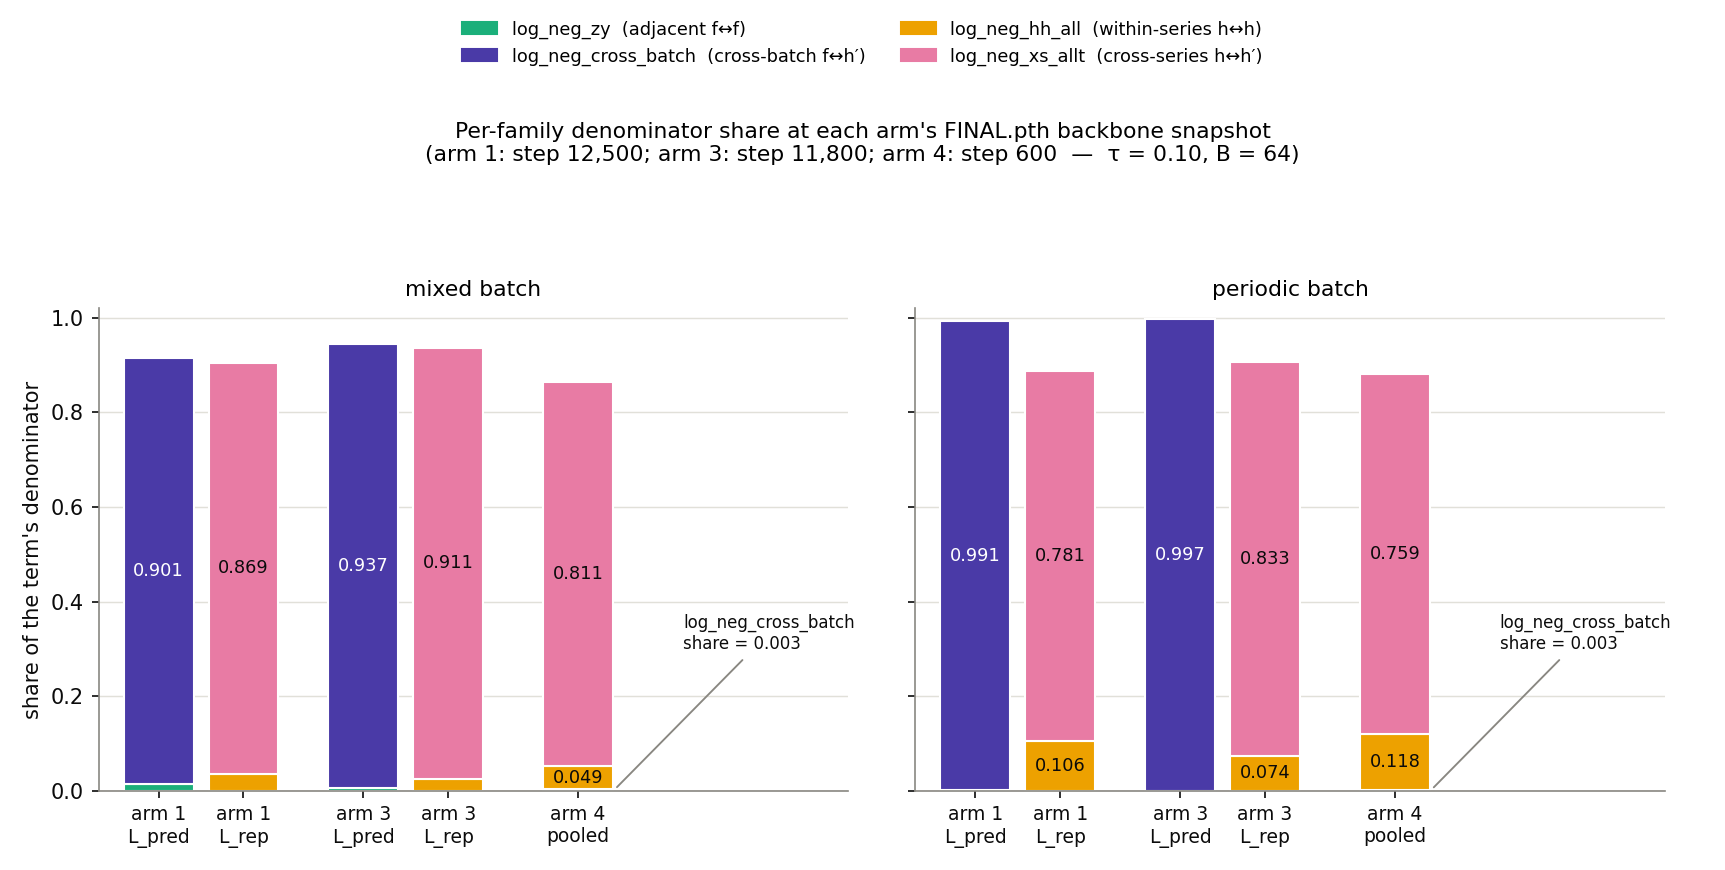
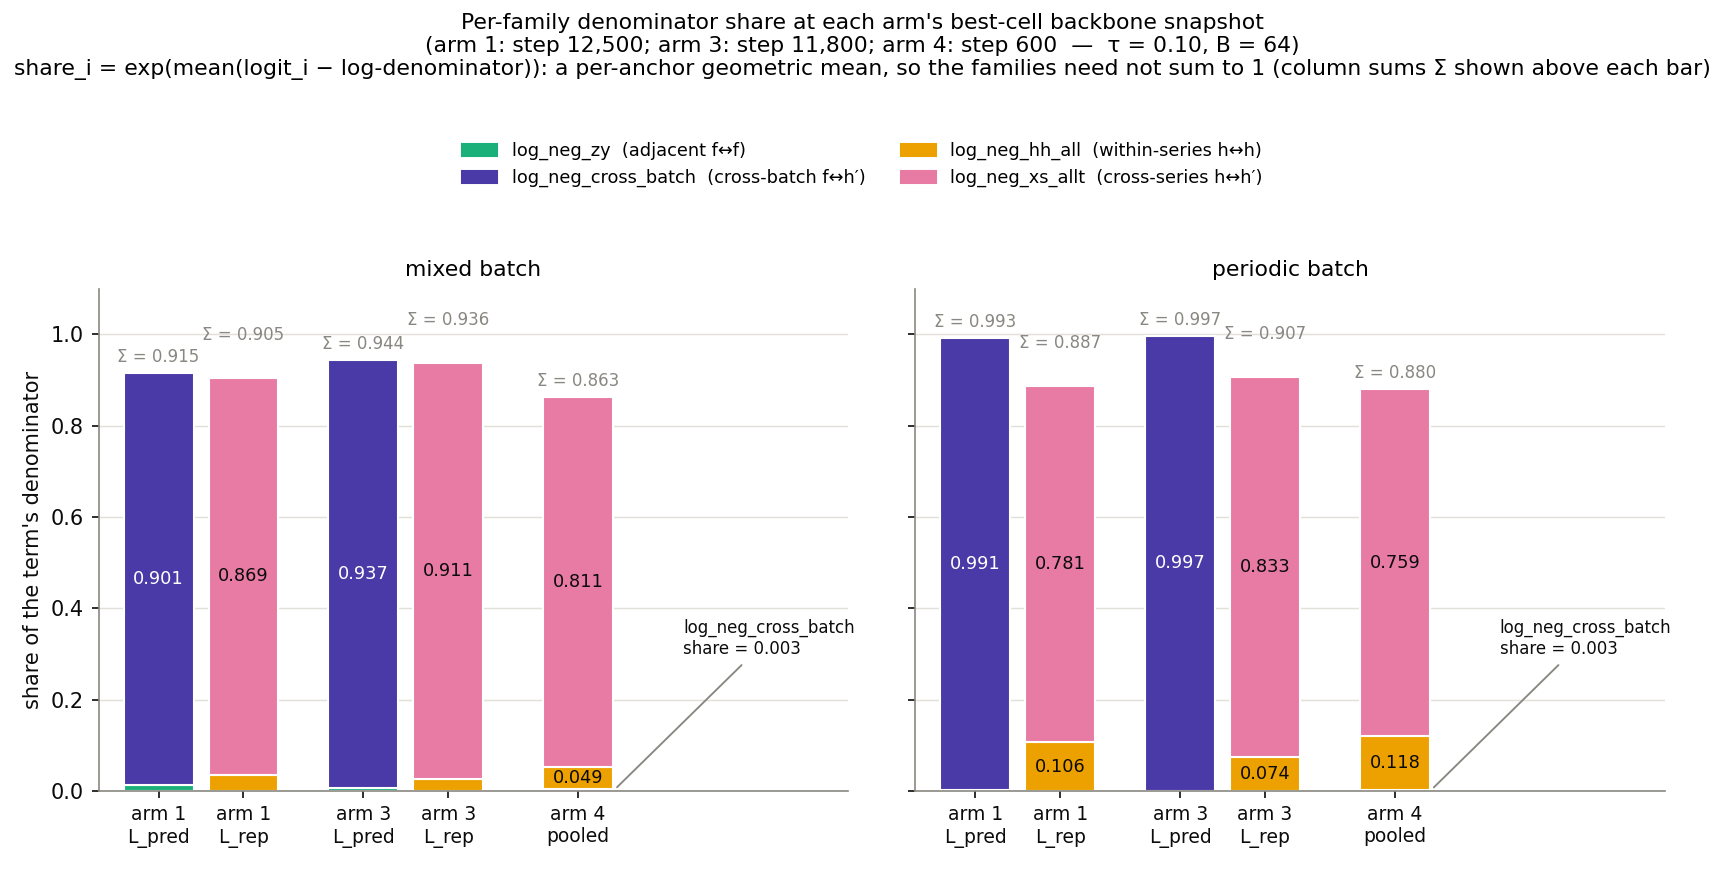
report(#374): apply reviewer edit list — fix 25k durability claim, captions out of alt text, cite all numbers, reconcile FINAL/final, label share remainder

diff --git a/reports/2026-07-10_split_pred_rep/plots/_make_plots.py b/reports/2026-07-10_split_pred_rep/plots/_make_plots.py
@@ -184,10 +184,14 @@ def gradient_share_stack() -> None:
                                 xytext=(xpos + 1.05, 0.30), fontsize=8, color=INK,
                                 arrowprops=dict(arrowstyle="-", color=MUTED, lw=0.9))
                 bottom += share
+            if bottom > 0:
+                dy = 0.015 if BAR_SLOTS.index((arm, denom, ticklabel, xpos)) % 2 == 0 else 0.075
+                ax.text(xpos, bottom + dy, f"Σ = {bottom:.3f}", ha="center",
+                        va="bottom", fontsize=8, color=MUTED)
         ax.set_xlim(-0.6, 6.9)
         ax.set_xticks([s[3] for s in BAR_SLOTS], [s[2] for s in BAR_SLOTS], fontsize=9)
         ax.set_title(f"{batch} batch", fontsize=10.5)
-        ax.set_ylim(0, 1.02)
+        ax.set_ylim(0, 1.10)
         ax.grid(axis="y", color=GRID, lw=0.7)
         ax.set_axisbelow(True)
         for side in ("top", "right"):
@@ -196,11 +200,13 @@ def gradient_share_stack() -> None:
     handles = [plt.Rectangle((0, 0), 1, 1, color=C_TENSOR[t]) for t in STACK_ORDER]
     fig.legend(handles, [TENSOR_LABEL[t] for t in STACK_ORDER],
                loc="upper center", ncol=2, fontsize=8.5, frameon=False,
-               bbox_to_anchor=(0.5, 0.995))
-    fig.suptitle("Per-family denominator share at each arm's FINAL.pth backbone snapshot"
-                 "\n(arm 1: step 12,500; arm 3: step 11,800; arm 4: step 600  —  τ = 0.10, B = 64)",
-                 y=0.86, fontsize=10.5)
-    fig.tight_layout(rect=(0, 0, 1, 0.78))
+               bbox_to_anchor=(0.5, 0.855))
+    fig.suptitle("Per-family denominator share at each arm's best-cell backbone snapshot"
+                 "\n(arm 1: step 12,500; arm 3: step 11,800; arm 4: step 600  —  τ = 0.10, B = 64)"
+                 "\nshare_i = exp(mean(logit_i − log-denominator)): a per-anchor geometric mean, "
+                 "so the families need not sum to 1 (column sums Σ shown above each bar)",
+                 y=0.985, fontsize=10.5)
+    fig.tight_layout(rect=(0, 0, 1, 0.83))
     fig.savefig(HERE / "gradient_share_stack.png")
     plt.close(fig)
 

diff --git a/reports/2026-07-10_split_pred_rep/split_pred_rep.md b/reports/2026-07-10_split_pred_rep/split_pred_rep.md
@@ -1,12 +1,14 @@
-# Splitting the contrastive loss (L_pred + L_rep) is not established as beating the SIGReg champion; MoCo-on-both (bimoco) point-beats the champion in all four (head, checkpoint) cells and leads the sibling arms with CIs at 12,500 steps
+# Splitting the contrastive loss: MoCo on both terms leads the sibling arms at 12,500 steps; no arm is established as beating the SIGReg champion
 
 **Question.** The champion loss merges five negative tensors under one pooled log-sum-exp denominator. Does splitting it into `L_pred` (f-anchored) and `L_rep` (h-anchored) improve GM-Relative MASE on the GIFT-Eval 97-config panel, and does adding EMA-teacher MoCo keys or replacing `L_pred` with BYOL alignment change the answer? (terms defined in annex)
 
-**Answer.** No arm is established as beating the SIGReg-champion (arm C). Among the six sibling arms, `L_pred_moco + L_rep_moco` (bimoco) has the lowest GM-Relative MASE at all four 12,500-step (head, checkpoint) cells and is 95 %-separated (task-level 95 % CI excludes ratio 1.0) from arms 1, 3, 4, 5, 6 in every cell (paired task-bootstrap, below). bimoco's point estimates are also below arm C in all four cells (narrowest gap 0.0167 at 6L / last), but arm C has no per-task file on this branch, so that gap is a point-estimate difference with no CI. The lead does not hold past 12,500 steps: arm 4 (pooled + MoCo) matches or beats bimoco at 25k. Single seed (20260520).
+**Answer.** No arm is established as beating the SIGReg champion (arm C). Among the six *sibling arms* — the six recipes trained here, sharing one backbone configuration and differing only in loss shape and key source — `L_pred_moco + L_rep_moco` (*bimoco*: the split loss with EMA-teacher MoCo keys on both terms) has the lowest GM-Relative MASE at all four 12,500-step (head, checkpoint) cells and is 95 %-separated (task-level 95 % CI excludes ratio 1.0) from arms 1, 3, 4, 5, 6 in every cell (paired task-bootstrap, below); on the two arm-4 `best` rows the compared backbones are 11,800 steps apart (arm 4 step 600 vs bimoco step 12,400), so those two rows mix loss shape with backbone step. bimoco has a lower point estimate than arm C in all four cells, but arm C has no per-task file, so that difference carries no CI. The lead does not hold past 12,500 steps: arm 4 (pooled + MoCo) is the lowest arm at 25,000 steps. Single seed (20260520).
 
 ## Result
 
-![Downstream GM-Relative MASE per arm at each (head, checkpoint) cell (point estimates; N = 1 seed). Dashed line = seasonal-naive (1.0). The hatched bar is arm C ref † — an external aggregate read from `experiments/2026-06-28_sigreg_lambda_tau_cross/results/gm_table.csv`, not reproducible from this experiment's `results/`, and with no CI. Arm separation is the paired task-bootstrap in the CI-forest figure below, not a bar-to-bar comparison here.](plots/headline_relmase.png)
+![Downstream GM-Relative MASE per arm](plots/headline_relmase.png)
+
+*Downstream GM-Relative MASE per arm at each (head, checkpoint) cell (point estimates; N = 1 seed). Dashed line = seasonal-naive (1.0). The hatched bar is arm C ref † — an external aggregate read from `experiments/2026-06-28_sigreg_lambda_tau_cross/results/gm_table.csv`, not reproducible from this experiment's results, and with no CI. Arm separation is the paired task-bootstrap in the CI-forest figure below, not a bar-to-bar comparison here.*
 
 | arm | 2L / best | 2L / last | 6L / best | 6L / last |
 | --- | --: | --: | --: | --: |
@@ -18,19 +20,25 @@
 | arm bimoco (`L_pred_moco` + `L_rep_moco`) | **1.1225** | **1.1180** | **1.1138** | **1.1087** |
 | arm C ref (SIGReg-cross champion) † | 1.1682 | 1.1491 | 1.1561 | 1.1254 |
 
-† arm C ref: aggregate read from `experiments/2026-06-28_sigreg_lambda_tau_cross/results/gm_table.csv` (arm `cross_C`); no per-task file exists on this branch. These four point estimates are read from an external file and cannot be reproduced from `results/` in this experiment.
+Sibling-arm cells: the `Aggregate GM-Relative MASE (97 configs)` line of `experiments/2026-07-10_split_pred_rep/results*/gift_eval_full_*/summary.txt`.
+
+† arm C ref: aggregate read from `experiments/2026-06-28_sigreg_lambda_tau_cross/results/gm_table.csv` (arm `cross_C`); no per-task file exists. These four point estimates come from an external file and cannot be reproduced from this experiment's results.
 
 ## GM-Relative MASE across backbone step
 
-![GM-Relative MASE per arm across backbone step (2k / best / 12,500 / 25k / 50k where available), shared y-axis, with the arm C champion † best (dotted) and last (dashed) cells as horizontal references. The 12,500 `best`/`last` cells use a 30k best-loss head (+10k resume for `last`); the 2k / 25k / 50k cells use a fresh 40k head on that snapshot.](plots/gm_curve_per_arm.png)
+![GM-Relative MASE per arm across backbone step](plots/gm_curve_per_arm.png)
 
-Continuing past 12,500 steps lowers no arm below its 12,500-step value, and arm 4 (pooled + MoCo) matches or beats bimoco at 25k (arm 4 6L 25k = 1.1073 vs bimoco 6L 25k = 1.1319), so the bimoco lead is established only at the four 12,500-step cells used for the arm ranking.
+*GM-Relative MASE per arm across backbone step (2k / best / 12,500 / 25k / 50k where available), shared y-axis, with the arm C champion † best (dotted) and last (dashed) cells as horizontal references. The 12,500 `best` / `last` cells use a 30k best-loss head (+10k resume for `last`); the 2k / 25k / 50k cells use a fresh 40k head on that snapshot.*
+
+At 25,000 steps arm 4 (pooled + MoCo) is the lowest arm in both panels (6L: arm 4 = 1.1073 vs bimoco = 1.1319; 2L: arm 4 = 1.1332 vs bimoco = 1.1339), so the bimoco lead is established only at the four 12,500-step cells used for the arm ranking. Other 6L / 25k cells: arm 3 = 1.1170, arm 1 = 1.1500 (`experiments/2026-07-10_split_pred_rep/results*/gift_eval_full_*_25k_*L/summary.txt`).
 
 ## Paired-bootstrap 95 % CIs on GM-Relative MASE ratios
 
-![Paired-bootstrap 95 % CIs on GM-Relative MASE ratios. Circle = task-level bootstrap; square (faded) = 28-dataset-clustered bootstrap. `*` marks checkpoint-selection- or step-confounded rows. n_boot = 20,000, seed 42.](plots/ci_forest.png)
+![Paired-bootstrap 95 % CIs on GM-Relative MASE ratios](plots/ci_forest.png)
 
-Rows counted as separated when the task-level 95 % CI excludes ratio 1.0 (`experiments/2026-07-10_split_pred_rep/results/pairwise_bootstrap_ci_*_nboot200k.csv` for the arm-5/6/bimoco references, `pairwise_bootstrap_ci.csv` for the arm-1/3/4 pairwise; direction ratio > 1 → the named arm is worse than the reference):
+*Paired-bootstrap 95 % CIs on GM-Relative MASE ratios. Circle = task-level bootstrap; square (faded) = 28-dataset-clustered bootstrap. `*` marks checkpoint-selection- or step-confounded rows. n_boot = 20,000, seed 42. The figure shows 34 of the 60 contrasts counted in the table below: all 12 arm-1/3/4 pairwise rows and all 12 arm-1/3/4-vs-bimoco rows (`best` and `last`), plus the `last`-cell rows for arm 5 vs arm 1, arms 1/3/4 vs arm 6, and arm 5 vs arm 6. The remaining 26 contrasts are counted in the table but not plotted.*
+
+Rows counted as separated when the task-level 95 % CI excludes ratio 1.0 (`experiments/2026-07-10_split_pred_rep/results/pairwise_bootstrap_ci_*_nboot200k.csv` for the arm-5/6/bimoco references, `experiments/2026-07-10_split_pred_rep/results/pairwise_bootstrap_ci.csv` for the arm-1/3/4 pairwise; direction ratio > 1 → the named arm is worse than the reference):
 
 | contrast set | rows | separated at 95 % (task-level CI) |
 | --- | --: | --: |
@@ -41,19 +49,33 @@ Rows counted as separated when the task-level 95 % CI excludes ratio 1.0 (`exper
 | **arm 1 / 3 / 4 vs bimoco** | **12** | **12 / 12 (bimoco lower)** |
 | arm 5 / arm 6 vs bimoco | 8 | 8 / 8 (bimoco lower) |
 
-Within the arm-1/3/4-vs-bimoco family, 10 of the 12 rows also clear the Bonferroni threshold α = 0.05 / 60 = 0.000833; the two that miss are 2L / best arm 4 vs bimoco (p₂ = 0.00435) and 6L / best arm 3 vs bimoco (p₂ = 0.00426) (`two_sided_p` column of `results/pairwise_bootstrap_ci_bimoco_nboot200k.csv`). On the periodic-cluster subset (`results/pairwise_bootstrap_ci_periodic.csv`) bimoco is again the lowest arm in every cell, separated at 95 % on 10 of the 12 arm-1/3/4 rows (both exceptions are arm 4 `best`).
+Within the arm-1/3/4-vs-bimoco family, 10 of the 12 rows also clear the Bonferroni threshold α = 0.05 / 60 = 0.000833; the two that miss are 2L / best arm 4 vs bimoco (p₂ = 0.00435) and 6L / best arm 3 vs bimoco (p₂ = 0.00426) (`two_sided_p` column of `experiments/2026-07-10_split_pred_rep/results/pairwise_bootstrap_ci_bimoco_nboot200k.csv`). On the periodic subset (37 of the 97 configs, `experiments/2026-07-10_split_pred_rep/results/pairwise_bootstrap_ci_periodic.csv`) bimoco is again the lowest arm in every cell, separated at 95 % on 10 of the 12 arm-1/3/4 rows; both exceptions are arm 4 `best` (2L CI 0.976–1.103, 6L CI 0.991–1.108).
 
 ## Denominator share
 
-![Per-family denominator share at each arm's FINAL.pth backbone snapshot (arm 1: step 12,500; arm 3: step 11,800; arm 4: step 600), on a mixed batch and a periodic-only batch (solar/electricity windows), τ = 0.10, probe B = 64.](plots/gradient_share_stack.png)
+![Per-family denominator share](plots/gradient_share_stack.png)
 
-Splitting gives the prediction pairs a near-full denominator; pooling collapses their share to 0.003 (both batches).
+*Per-family denominator share at each arm's best-cell backbone snapshot (arm 1: step 12,500; arm 3: step 11,800; arm 4: step 600), on a mixed batch and a periodic-only batch (solar / electricity windows), τ = 0.10, probe B = 64. `share_i = exp(mean(logit_i − log-denominator))` is a per-anchor geometric mean, so the families need not sum to 1; each bar's column sum Σ is printed above it.*
 
-The share is measured at probe B = 64 (diagnostic), whereas training ran at B = 512; cross-batch share is B-dependent, so the absolute shares are indicative, not identical to the training-time split.
+Measured share of the cross-batch `f ↔ h′` family (`log_neg_cross_batch`) in the term carrying the prediction pairs (`experiments/2026-07-10_split_pred_rep/results/gradient_share_measurement.csv`):
+
+| arm | term | mixed batch | periodic batch |
+| --- | --- | --: | --: |
+| arm 1 (split, step 12,500) | `L_pred` | 0.901 | 0.991 |
+| arm 3 (split + MoCo, step 11,800) | `L_pred` | 0.937 | 0.997 |
+| arm 4 (pooled, step 600) | pooled | 0.003 | 0.003 |
+
+The three probed snapshots span 11,900 steps, so this split-vs-pooled difference is not separated from backbone step; bimoco was not probed. The share is measured at probe B = 64 (diagnostic), whereas training ran at B = 512; cross-batch share is B-dependent, so the absolute shares are indicative, not identical to the training-time split.
 
 ## Method (annex)
 
-All backbones: B = 512, T = 4096, C = 1, τ = 0.10, `lr = 1e-3`, seed 20260520, dataset `gift-pretrain-full-4096 / small_v1`, EMA teacher τ = 0.90, SIGReg λ_e = λ_h = 1, CPC auxiliary, 12,500 steps. Downstream head (quantile, 2L or 6L): the `best` cell trains a fresh 30k-step head on `FINAL.pth` (the best-loss backbone); the `last` cell resumes that head +10k steps on `final.pth` (step 12,500). The 2k / 25k / 50k trajectory cells each train a fresh 40k-step head on the corresponding backbone snapshot. Eval: GIFT-Eval 97 configs, strategy B4, quantile-median MASE divided by the branch-committed seasonal-naive reference (`experiments/2026-07-10_split_pred_rep/results/seasonal_naive_all_results.csv`).
+All backbones: B = 512, T = 4096, C = 1, τ = 0.10, `lr = 1e-3`, seed 20260520, dataset `gift-pretrain-full-4096 / small_v1`, EMA teacher τ = 0.90, SIGReg λ_e = λ_h = 1, CPC auxiliary, 12,500 steps.
+
+Two backbone snapshots per arm feed the downstream head. The **best-cell backbone** (file `bb_<run>_FINAL.pth`) is a copy of the arm's `_best_loss.pth` save; arm 1 recorded no `best_loss` save, so its best-cell backbone is byte-identical to its step-12,500 backbone (`experiments/2026-07-10_split_pred_rep/results/backbone_step_verification.log`). The **step-12,500 backbone** (file `bb_<run>_final.pth`) is the end-of-training checkpoint. The `best` cell trains a fresh 30k-step quantile head (2L or 6L) on the best-cell backbone; the `last` cell resumes that head +10k steps on the step-12,500 backbone. The 2k / 25k / 50k trajectory cells each train a fresh 40k-step head on the corresponding backbone snapshot.
+
+Eval: GIFT-Eval 97 configs, strategy B4, quantile-median MASE divided by the seasonal-naive reference in `experiments/2026-07-10_split_pred_rep/results/seasonal_naive_all_results.csv`.
+
+f-anchored retrieval is saturated across all arms after step 600 — `auc` ≥ 0.9975, minimum `top1` 0.8348 (arm 1, step 3,343), every other arm above 0.95 (`auc` / `top1` columns of `experiments/2026-07-10_split_pred_rep/runs*/bb_*_losses*.csv`) — so this diagnostic does not separate the arms.
 
 ## Arms (annex)
 
@@ -69,17 +91,17 @@ All backbones: B = 512, T = 4096, C = 1, τ = 0.10, `lr = 1e-3`, seed 20260520, 
 
 ## Backbone step (annex)
 
-| arm | `best` cell step | `last` cell step | `FINAL.pth` = |
+| arm | `best` cell step | `last` cell step | best-cell backbone = |
 | --- | --: | --: | --- |
-| arm 1 | 12,500 | 12,500 | `FINAL.pth` is the step-12,500 checkpoint, not a loss-argmin checkpoint |
-| arm 3 | 11,800 | 12,500 | `best_loss.pth` at step 11,800 |
-| arm 4 | 600 | 12,500 | `best_loss.pth` at step 600 |
-| arm 5 | 11,800 | 12,500 | `best_loss.pth` at step 11,800 |
-| arm 6 | 8,700 | 12,500 | `best_loss.pth` at step 8,700 |
-| arm bimoco | 12,400 | 12,500 | `best_loss.pth` at step 12,400 |
+| arm 1 | 12,500 | 12,500 | the step-12,500 checkpoint, not a loss-argmin checkpoint |
+| arm 3 | 11,800 | 12,500 | `_best_loss.pth` at step 11,800 |
+| arm 4 | 600 | 12,500 | `_best_loss.pth` at step 600 |
+| arm 5 | 11,800 | 12,500 | `_best_loss.pth` at step 11,800 |
+| arm 6 | 8,700 | 12,500 | `_best_loss.pth` at step 8,700 |
+| arm bimoco | 12,400 | 12,500 | `_best_loss.pth` at step 12,400 |
 | arm C ref | not exported | 12,500 | — |
 
-Arms 1 and 4's `best`-cell backbone is not the argmin of a comparable curve: arm 1's shipped checkpoint is step 12,500, and arm 4's loss never returns below its step-600 value. Six of the twelve arm-1/3/4 Bonferroni-family rows are `best` rows and mix the loss-shape axis with this checkpoint-selection axis.
+Arms 1 and 4's `best`-cell backbone is not the argmin of a comparable curve: arm 1's shipped checkpoint is step 12,500, and arm 4's loss never returns below its step-600 value. Six of the twelve arm-1/3/4 pairwise rows, and six of the twelve arm-1/3/4-vs-bimoco rows, are `best` rows and mix the loss-shape axis with this checkpoint-selection axis.
 
 ## Definitions (annex)
 
@@ -89,16 +111,15 @@ Arms 1 and 4's `best`-cell backbone is not the argmin of a comparable curve: arm
 - *GM-Relative MASE* — geometric mean over the 97 GIFT-Eval configs of `(model MASE) / (seasonal-naive MASE)`, at quantile 0.5. Lower is better; 1.0 = seasonal-naive.
 - *log-sum-exp denominator* — the InfoNCE normaliser at an anchor: the soft-max over all negative similarity scores (and, under `--pos-in-denominator`, the positive score too).
 - *MoCo* — cross-batch keys sourced from an EMA teacher (τ = 0.90) instead of the student.
+- *bimoco* — the arm applying MoCo keys to both split terms: `L = L_pred_moco + L_rep_moco`.
+- *sibling arms* — the six arms trained in this experiment (1, 3, 4, 5, 6, bimoco), sharing one backbone configuration and differing only in loss shape and key source. arm C is not a sibling arm: it was trained in an earlier experiment and reused here without retraining.
 - *SIGReg* — the spectral isotropy regulariser applied to the encoder (λ_e) and head (λ_h) latents; the champion uses λ_e = λ_h = 1.
 - *CPC* — the contrastive predictive-coding auxiliary head, on in every arm.
 - *BYOL alignment (`L_align`)* — `2 − 2·cos(f_t, sg(h^T_{t+1}))` (sg = stop-gradient); negative-free, minimum 0.
 - *`L_rep_moco`* — normalized InfoNCE over the three h-anchored families with teacher-side keys; the same-batch same-time student ↔ teacher pair sits in both numerator and denominator log-sum-exp.
 - *`auc` / `top1`* — retrieval quality of the f-anchored positive against the B = 512 cross-batch candidates: ROC area of the positive-score distribution, and the fraction of anchors whose positive ranks first.
 - *B4* — GIFT-Eval evaluation strategy B4 (teacher-forced probe over the full 97-config panel).
-- *best / last cell* — the two downstream checkpoints per arm: `best` = head on the best-loss backbone, `last` = head resumed on the step-12,500 backbone.
+- *best / last cell* — the two downstream checkpoints per arm: `best` = head on the best-cell backbone, `last` = head resumed on the step-12,500 backbone.
 - *arm C* — the SIGReg-cross champion recipe (`cross_C`: λ_e = 1, λ_h = 1, EMA τ = 0.90), the baseline this sweep is ranked against.
 - *Bonferroni family* — 60 contrasts = 15 arm pairs × 4 (head, checkpoint) cells on the full-97 panel, α = 0.05 / 60 = 0.000833.
-
-## f-anchored retrieval saturation (annex)
-
-f-anchored retrieval is saturated across all arms after step 600: `auc` ≥ 0.9975, minimum `top1` 0.8348 (arm 1, step 3,343; `runs/bb_split_pred_rep_xftrip_nobn_enc3_emateach_sigreg_qk_aon_b512_cpc_tau090_losses_full.csv`, `top1` column), every other arm above 0.95.
+</content>
